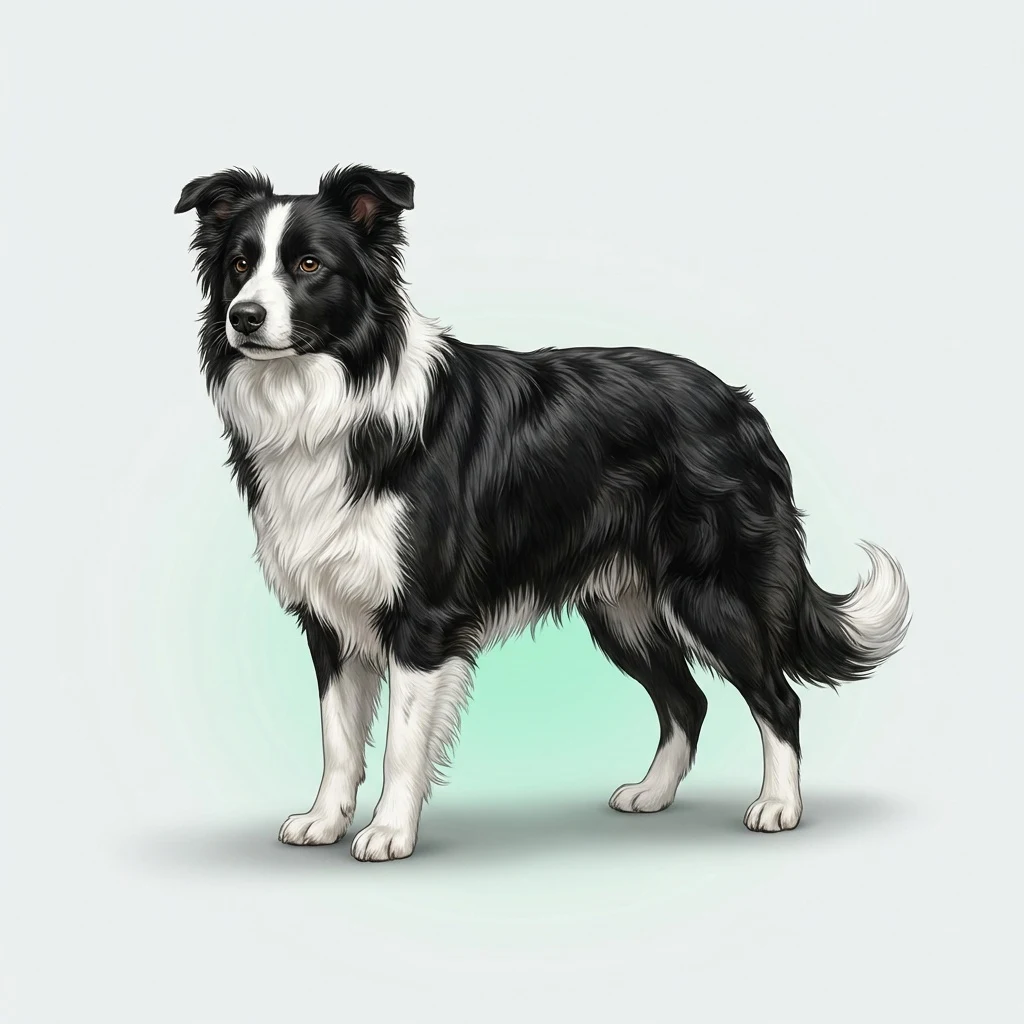
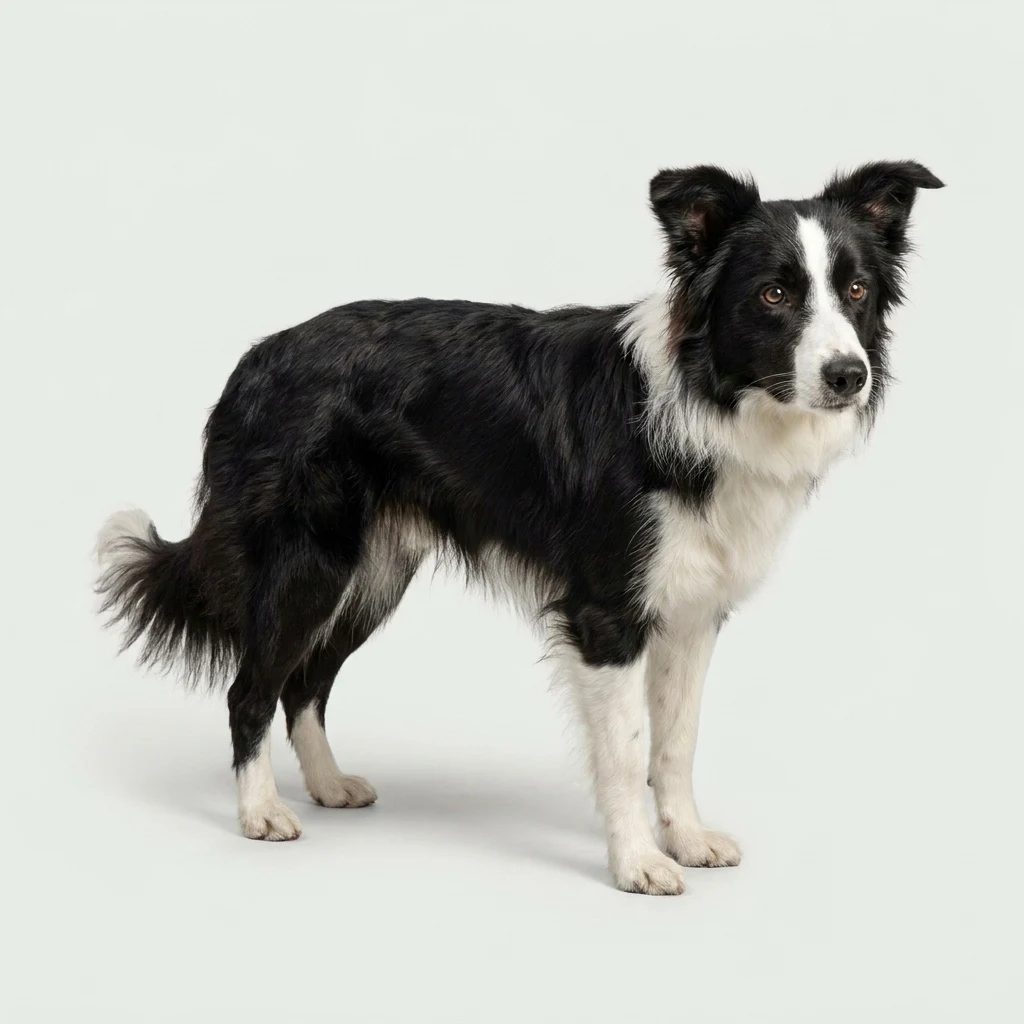
feat(register): realistic AI breed photos instead of illustrations [M5-R11-05]
David 2026-10-10: breed portraits are realistic photographs like the app's
pets. New images for all 5 breeds (pet-prep run 38028653659, nano_banana_pro).
Portrait kind "ai_photo" with caption "Fotografija, ustvarjena z AI" /
"AI-generated photo" and alt "<Breed> — fotografija (AI)" / "<Breed> — photo (AI)";
older "ai_illustration" exports are still accepted and labelled as illustrations.

Claude-Session: https://claude.ai/code/session_01QcT37tmbYsGAZyzT5YteSc

diff --git a/src/lib/registry/views.ts b/src/lib/registry/views.ts
@@ -15,6 +15,7 @@ import {
   type Availability,
   type Breed,
   type Portrait,
+  type PortraitKind,
   type FactItem,
   type Range,
   type SexValue,
@@ -57,7 +58,9 @@ export function formatDay(locale: Locale, iso: string): string {
     : new Intl.DateTimeFormat(intlDate[locale], { dateStyle: "long", timeZone: "UTC" }).format(d);
 }
 
-// ─── breed portrait (optional AI illustration from the export) ────────────────
+// ─── breed portrait (optional AI photo from the export) ─────────────────────
+
+const PORTRAIT_KINDS: readonly PortraitKind[] = ["ai_photo", "ai_illustration"];
 
 export type PortraitView = { src: string; width: number; height: number; alt: string; caption: string };
 
@@ -70,14 +73,14 @@ function portraitView(locale: Locale, b: Breed): PortraitView | null {
   const p = b.portrait;
   if (!p) return null;
   const c = copies[locale];
-  return { src: portraitSrc(b, p), width: p.width, height: p.height, alt: c.page.portraitAlt(b.name[locale]), caption: c.page.portraitCaption };
+  return { src: portraitSrc(b, p), width: p.width, height: p.height, alt: c.page.portraitAlt[p.kind](b.name[locale]), caption: c.page.portraitCaption[p.kind] };
 }
 
-/** Fails the build for a portrait that is not a labelled AI illustration or whose file is missing. */
+/** Fails the build for a portrait that is not a labelled AI photo / illustration or whose file is missing. */
 function checkPortrait(b: Breed) {
   const p = b.portrait;
   if (!p) return;
-  if (p.kind !== "ai_illustration") throw new Error(`registry: ${b.id}.portrait.kind must be "ai_illustration"`);
+  if (!PORTRAIT_KINDS.includes(p.kind)) throw new Error(`registry: ${b.id}.portrait.kind must be one of ${PORTRAIT_KINDS.join(", ")}`);
   if (!/^[\w.-]+\.(webp|avif|png|jpe?g)$/.test(p.file)) throw new Error(`registry: ${b.id}.portrait.file "${p.file}" is not a plain image file name`);
   if (!(p.width > 0 && p.height > 0)) throw new Error(`registry: ${b.id}.portrait needs width and height`);
   const file = join(process.cwd(), "public", portraitSrc(b, p));
@@ -343,7 +346,7 @@ export type IndexItem = {
   t: string[];
   /** one-line summary */
   l: string;
-  /** portrait thumbnail (optional AI illustration) */
+  /** portrait thumbnail (optional AI photo) */
   p?: { src: string; w: number; h: number };
 };
 

diff --git a/src/content/registry/registry.ts b/src/content/registry/registry.ts
@@ -72,7 +72,7 @@ export type Breed = {
   /**
    * Optional fields the website reads when the export provides them (absent today):
    * `updated` — ISO date of the breed's last content change (else the register date);
-   * `portrait` — an AI illustration at public/animals/<species EN slug>/<file>;
+   * `portrait` — an AI-generated photo (older exports: illustration) at public/animals/<species EN slug>/<file>;
    * `same_as` — authority URLs for the breed (Wikidata / Wikipedia), JSON-LD only.
    */
   updated?: string;
@@ -80,7 +80,10 @@ export type Breed = {
   same_as?: string[];
 };
 
-export type Portrait = { file: string; width: number; height: number; kind: "ai_illustration" };
+/** `ai_photo` = realistic AI photo (David 2026-10-10, M5-R11-05); `ai_illustration` = older exports, still read. */
+export type PortraitKind = "ai_photo" | "ai_illustration";
+
+export type Portrait = { file: string; width: number; height: number; kind: PortraitKind };
 
 export type Species = {
   id: string;

diff --git a/src/content/registry/types.ts b/src/content/registry/types.ts
@@ -3,6 +3,8 @@
  * whatever species, fact groups, fields, facets and game rules the registry contains and looks
  * up their words here. A registry value without words here fails the build (see validate()).
  */
+import type { PortraitKind } from "@/content/registry/registry";
+
 export type Fmt = {
   /** 1234.5 → "1,234.5" / "1.234,5". */
   num: (n: number, digits?: number) => string;
@@ -128,8 +130,9 @@ export type RegistryCopy = {
     updated: string;
     glanceTitle: string;
     glanceNote: string;
-    portraitAlt: (name: string) => string;
-    portraitCaption: string;
+    /** per portrait kind: "ai_photo" (current) or "ai_illustration" (older exports) */
+    portraitAlt: Record<PortraitKind, (name: string) => string>;
+    portraitCaption: Record<PortraitKind, string>;
     /** Generated questions and answers (only from sourced facts). */
     qa: {
       title: string;

diff --git a/src/content/registry/sl.ts b/src/content/registry/sl.ts
@@ -271,8 +271,8 @@ const sl: RegistryCopy = {
     updated: "Posodobljeno",
     glanceTitle: "Na kratko",
     glanceNote: "Ključna dejstva iz virov na dnu strani. Kjer se viri razlikujejo, je navedena vsaka vrednost.",
-    portraitAlt: (name) => `${name} — ilustracija (AI)`,
-    portraitCaption: "Ilustracija, ustvarjena z AI",
+    portraitAlt: { ai_photo: (name) => `${name} — fotografija (AI)`, ai_illustration: (name) => `${name} — ilustracija (AI)` },
+    portraitCaption: { ai_photo: "Fotografija, ustvarjena z AI", ai_illustration: "Ilustracija, ustvarjena z AI" },
     qa: {
       title: "Vprašanja in odgovori",
       intro: "Odgovori temeljijo samo na dejstvih z viri s te strani; vsak odgovor navaja svoje vire.",

diff --git a/src/content/registry/en.ts b/src/content/registry/en.ts
@@ -262,8 +262,8 @@ const en: RegistryCopy = {
     updated: "Updated",
     glanceTitle: "At a glance",
     glanceNote: "Key facts from the sources at the bottom of the page. Where sources differ, each value is listed.",
-    portraitAlt: (name) => `${name} — illustration (AI)`,
-    portraitCaption: "AI-generated illustration",
+    portraitAlt: { ai_photo: (name) => `${name} — photo (AI)`, ai_illustration: (name) => `${name} — illustration (AI)` },
+    portraitCaption: { ai_photo: "AI-generated photo", ai_illustration: "AI-generated illustration" },
     qa: {
       title: "Questions and answers",
       intro: "Answered only from the sourced facts on this page; every answer names its sources.",

diff --git a/src/app/[locale]/[slug]/[species]/[breed]/page.tsx b/src/app/[locale]/[slug]/[species]/[breed]/page.tsx
@@ -57,7 +57,7 @@ export async function generateMetadata({ params }: PageProps<"/[locale]/[slug]/[
   const b = r.breed;
   // Share image: the breed's AI portrait when the export has one, else a generated card with the breed name.
   const image = b.portrait
-    ? { path: portraitSrc(b, b.portrait), width: b.portrait.width, height: b.portrait.height, alt: c.page.portraitAlt(b.name[r.locale]) }
+    ? { path: portraitSrc(b, b.portrait), width: b.portrait.width, height: b.portrait.height, alt: c.page.portraitAlt[b.portrait.kind](b.name[r.locale]) }
     : { path: `/og/${sp.id}/${b.id}.${r.locale}.png`, width: 1200, height: 630, alt: b.name[r.locale] };
   return buildPathMetadata({
     locale: r.locale,

diff --git a/src/content/registry/README.md b/src/content/registry/README.md
@@ -26,7 +26,7 @@ npm run lint && npm run build && npx tsc --noEmit
 | Field | Type | Effect on the site |
 |---|---|---|
 | `updated` | `"YYYY-MM-DD"` | "Updated" date on the breed page, sitemap `lastmod`, JSON-LD `dateModified`; catalogue date = latest breed. Without it: `registryUpdated` in `src/lib/registry/views.ts`. |
-| `portrait` | `{ file, width, height, kind: "ai_illustration" } \| null` | Image at the top of the breed page (caption "AI-generated illustration"), `og:image` of the breed page and a lazy 48 px thumbnail in catalogue rows. The file must be at `public/animals/<species EN slug>/<file>` or the build fails. Without it: the page is unchanged and the share image is the generated name card (`/og/<species>/<breed>.<locale>.png`). |
+| `portrait` | `{ file, width, height, kind: "ai_photo" \| "ai_illustration" } \| null` | Image at the top of the breed page (caption "AI-generated photo" / "Fotografija, ustvarjena z AI"; older `ai_illustration` exports: "AI-generated illustration"), `og:image` of the breed page and a lazy 48 px thumbnail in catalogue rows. The file must be at `public/animals/<species EN slug>/<file>` or the build fails. Without it: the page is unchanged and the share image is the generated name card (`/og/<species>/<breed>.<locale>.png`). |
 | `same_as` | `string[]` | Authority URLs of the breed (Wikidata / Wikipedia) in JSON-LD `about.sameAs`. |
 
 Never ship a placeholder portrait: test with `PETPREP_REGISTRY_FILE=<fixture.json>` and a local image that is not committed.
